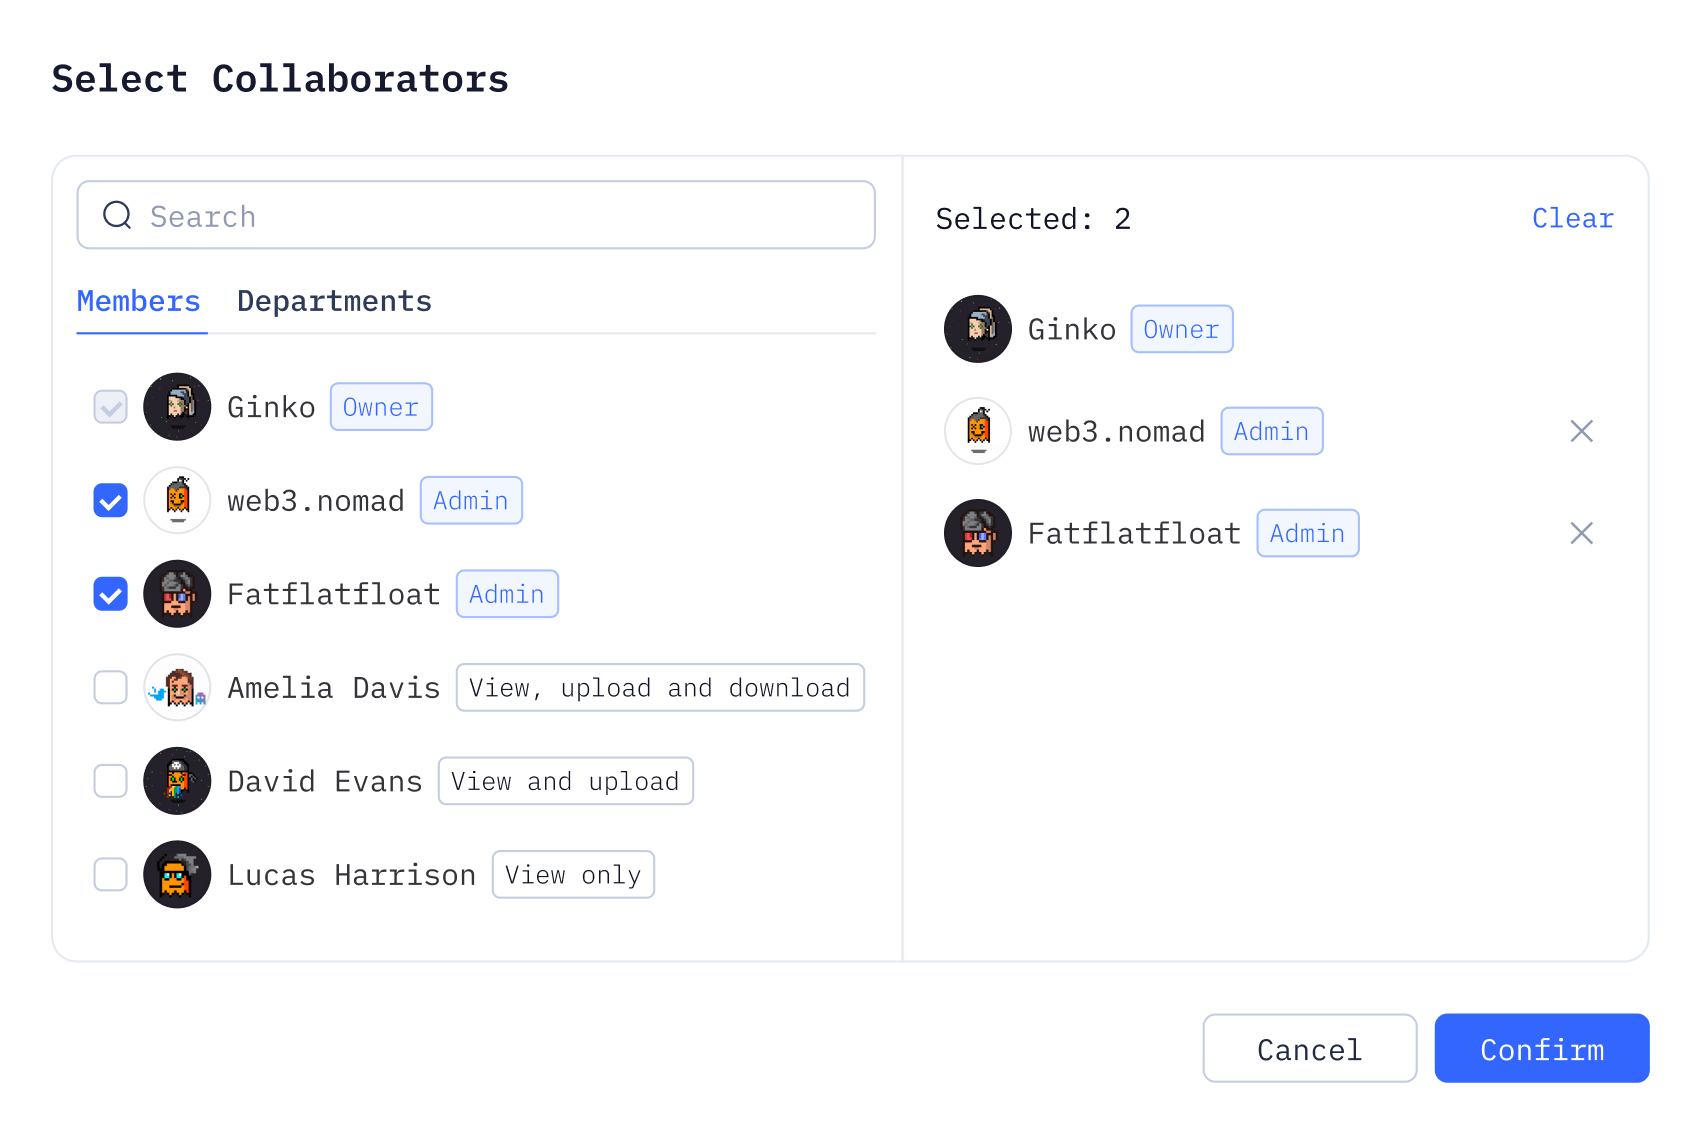
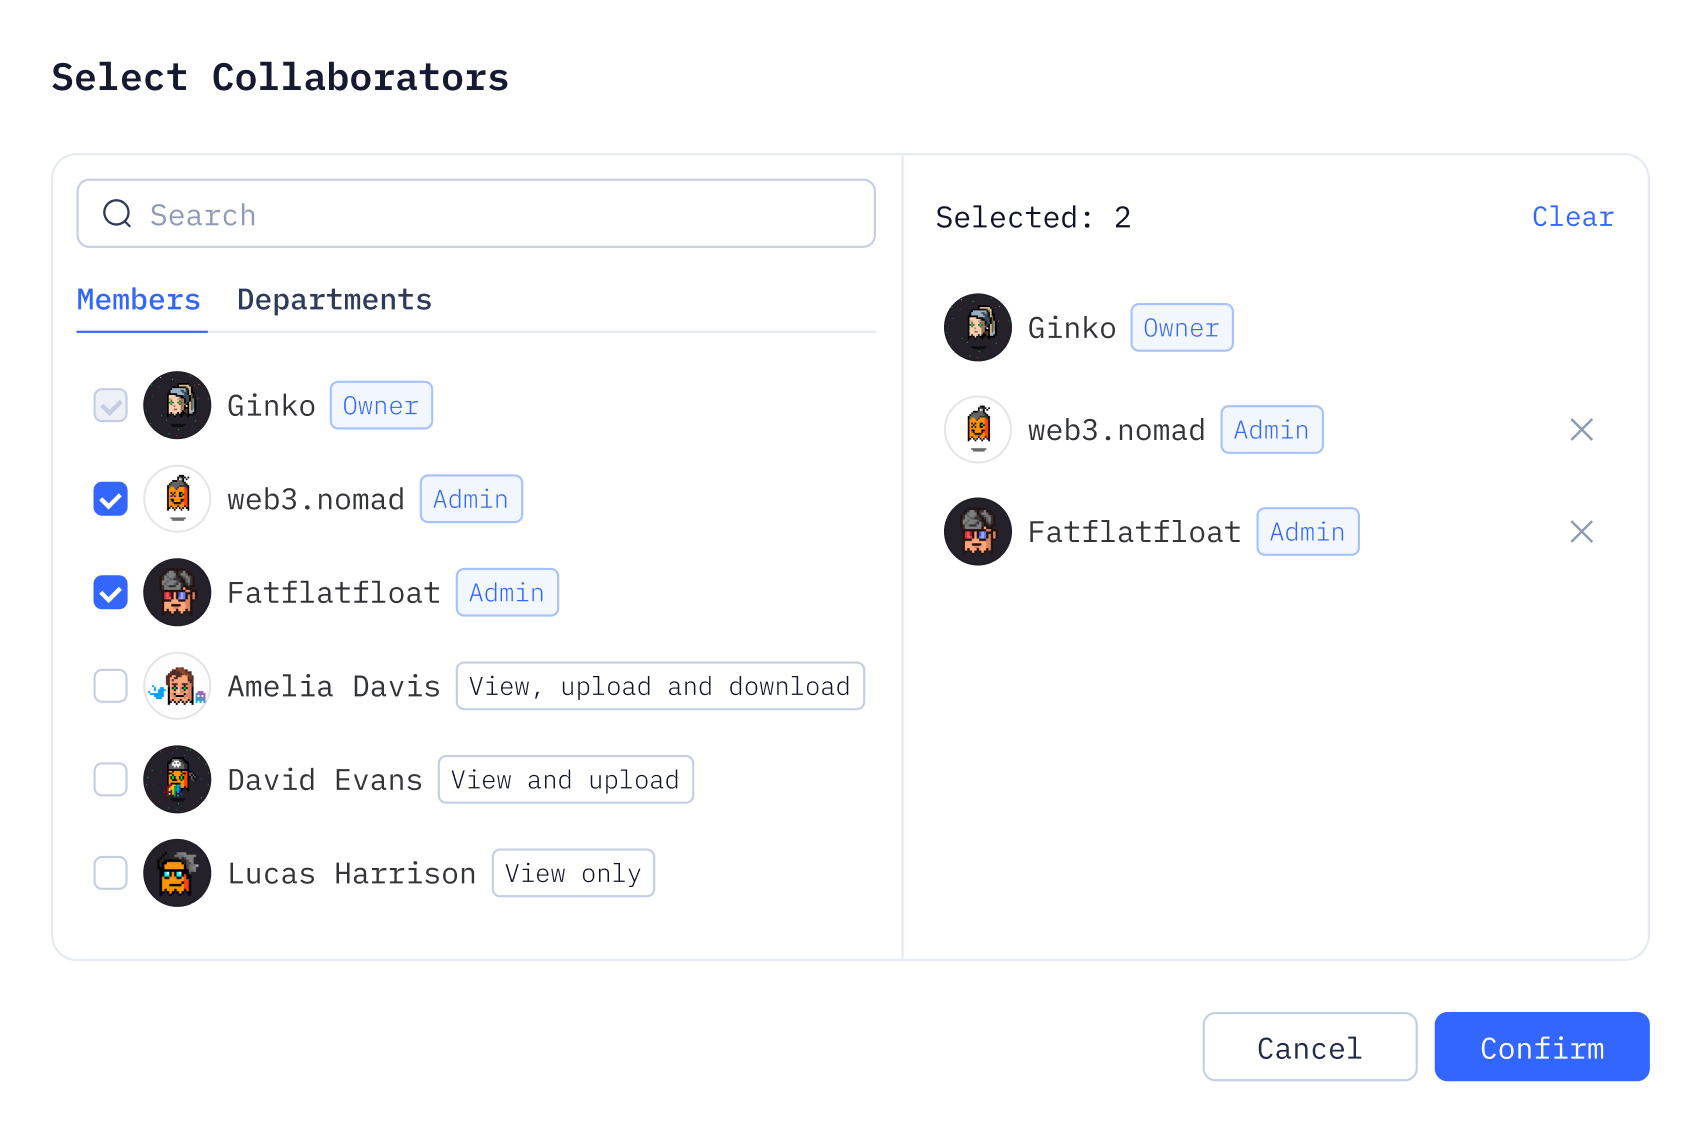
image quality

diff --git a/src/app/[lng]/features/(team-collaboration)/permissions/page.client.tsx b/src/app/[lng]/features/(team-collaboration)/permissions/page.client.tsx
@@ -1,10 +1,11 @@
 'use client'
 
-import { FlexCenterContainer } from '@/components/StyleWrapper/Container'
-import useAnimationTrace from '@/hooks/useAnimationTrace'
 import { motion } from 'framer-motion'
-import { MotionImage } from '@/components/StyleWrapper/image'
+
+import useAnimationTrace from '@/hooks/useAnimationTrace'
 import usePublicUrl from '@/hooks/usePublicUrl'
+import { FlexCenterContainer } from '@/components/StyleWrapper/Container'
+import { MotionImage } from '@/components/StyleWrapper/image'
 
 const ImageBasePath = '/Features/Permissions'
 
@@ -36,9 +37,11 @@ export default function PageClient() {
           onAnimationComplete={() => handleAnimationComplete(1)}
         />
         <MotionImage
-          src={getUrl('/Permissions-Modal.png')}
+          src={getUrl('Permissions-Modal.png')}
           width={566.95}
           height={377.43}
+          quality={100}
+          unoptimized={true}
           alt="Permissions-Modal"
           initial={{ x: '-10%', opacity: 0 }}
           animate={isBuildFinished(1) ? { x: 0, opacity: 1 } : {}}
